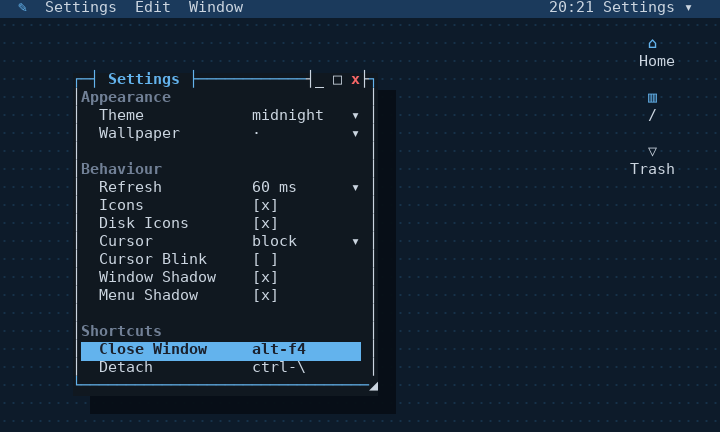
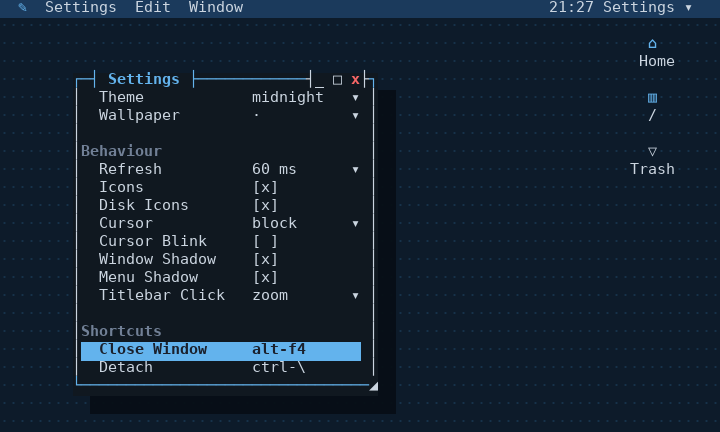
A double click on a title bar is configurable, zoom by default
DT_DBLACTION picks what happens: zoom (the default, matching every OS
this style is borrowed from), min, close, or none. DT_DBLID and
DT_DBLT track the last title-bar click well enough to tell a real
double click from two unrelated ones, DT_DBLMS (400ms) apart -- a
threshold, not a setting of its own. Zoom checks fixed itself, the
same restriction the □ button and the corner drag already have,
since dt_zoom has no such guard and this is a new path to it that
bypasses the menu's own dimming.

Settings gets a "Titlebar Click" dropdown (proving the widget library
a second time, on a genuinely different set of choices from Theme or
Cursor). Its label had to be shorter than the request's own wording --
"Titlebar Double-Click" doesn't fit the row's fixed label width and
collided with the dropdown drawn after it, caught by looking at the
actual render rather than trusting the string.

Adding a row before Shortcuts shifted everything after it again, the
same class of fallout as the last two settings additions: DOWN4 and
the shortcut-rebind test's down-count both bumped, and the
About-Refresh test's window made one row taller again.

Testing this needed its own timing, not run()'s: two presses close
enough together to count as a double click have to land inside
DT_DBLMS, and run()'s own default settle-plus-collect between keys
(0.25s + 0.2s) is longer than that. dblclick_run sends the first
press with a much tighter settle instead, the same reasoning shadow_run
[…]

diff --git a/tests/desktop.py b/tests/desktop.py
@@ -158,6 +158,31 @@ sc, _ = run(ONE, [press(6, 35), press(1, 75)])
 check("and zooming again puts it back where it was",
       sc.g[6][10] == "┌" and sc.g[13][39] == "◢", sc)
 
+
+# Two presses close enough together to count as one double click -- run()'s
+# own default settle/collect between keys (0.25s + 0.2s) is longer than
+# DT_DBLMS, so this needs its own tight timing rather than run()'s.
+def dblclick_run(session, r, c, env=None):
+    path = "/tmp/hibr-desktop-dblclick.hibr"
+    open(path, "w").write("%s. %s\ndt_open\n%s\ndt_run\ndt_close\n"
+                          % (load(MOD), WM, session))
+    t = Term(path, env=dict({"DT_TICK": "60"}, **(env or {})), rows=ROWS,
+             cols=COLS, settle=0.5)
+    t.send(press(r, c), settle=0.1, collect=0.05)
+    t.send(press(r, c), settle=0.3, collect=0.2)
+    sc = t.screen()
+    t.quit(b"qy", 1.0)
+    os.unlink(path)
+    return sc
+
+
+sc = dblclick_run(ONE, 6, 20)
+check("double-clicking the title bar zooms it too, by default",
+      sc.g[1][0] == "┌" and sc.g[23][79] == "◢", sc)
+sc = dblclick_run(ONE, 6, 20, env={"DT_DBLACTION": "none"})
+check("DT_DBLACTION=none turns that off",
+      sc.g[6][10] == "┌" and sc.g[1][0] != "┌", sc)
+
 # An app declared fixed has no maximise button at all -- not dimmed, not
 # there -- so a game whose board is one size does not offer to stretch it.
 FIXED = ('dt_app fx "Fixed" 6 20 once "◆" fixed\n'
@@ -178,6 +203,9 @@ check("Zoom is dimmed on the Window menu for it",
       sc.find("Zoom") is not None and sc.at(3, 22) != "z", sc)
 check("and so is Resize",
       sc.find("Resize") is not None and sc.at(2, 22) != "r", sc)
+sc = dblclick_run(FIXED, 4, 15)
+check("a fixed window's double-click does not zoom it either",
+      sc.g[9][27] == "┘", sc)
 
 # The bar's app name follows focus even for an app with no menus of its own
 # to merge in -- Clock and About are exactly this shape, and used to show
@@ -859,12 +887,12 @@ sc, raw = run('dt_new "Settings" 12 34 2 2 panel',
 check("and the next desktop starts with it", sc.find("slate") is not None, sc)
 shutil.rmtree(CONF, True)
 
-# Nine downs from Theme reaches Close Window: Theme, Wallpaper, Refresh,
+# Ten downs from Theme reaches Close Window: Theme, Wallpaper, Refresh,
 # Icons, Disk Icons, Cursor, Cursor Blink, Window Shadow, Menu Shadow,
-# Close Window.
+# Titlebar Click, Close Window.
 CONF2 = tempfile.mkdtemp(prefix="hibr-conf2-")
 sc, raw = run('dt_new "Settings" 12 34 2 2 panel',
-              feed=[b"\x1b[B"] * 9 + [b"\r", b"x"],
+              feed=[b"\x1b[B"] * 10 + [b"\r", b"x"],
               env={"XDG_CONFIG_HOME": CONF2}, pre=PANEL)
 check("a shortcut row can be rebound to a new key",
       sc.find("alt-f4") is None, sc)
@@ -1029,4 +1057,4 @@ check("ending it leaves the other one alone",
       "personal" in r.stdout and "work" not in r.stdout, r.stdout)
 unsession()
 
-report(161)
+report(164)

diff --git a/tests/apps.py b/tests/apps.py
@@ -235,10 +235,11 @@ check("down skips the blank line and the heading, landing on Refresh",
       sc.find("350 ms") is not None, sc)
 
 # Theme, Wallpaper, Refresh, Icons, Disk Icons, Cursor, Cursor Blink, Window
-# Shadow, Menu Shadow, Close Window, Detach, Quit, Cycle Windows, New
-# Terminal, Task Manager, Panel, Other -- sixteen downs from Theme reaches
-# the second window, because cp_move steps over the headings and the blanks.
-DOWN4 = [b"\x1b[B"] * 16
+# Shadow, Menu Shadow, Titlebar Click, Close Window, Detach, Quit,
+# Cycle Windows, New Terminal, Task Manager, Panel, Other -- seventeen downs
+# from Theme reaches the second window, because cp_move steps over the
+# headings and the blanks.
+DOWN4 = [b"\x1b[B"] * 17
 
 sc = run(*PANEL, feed=[b"\x1b[B"] * 3 + [b"\r"], pre=TICK, also=OTHER)
 check("the icons can be switched off, and the panel shows an unchecked box",
@@ -252,6 +253,14 @@ check("menu shadow is its own setting, separate from window shadow",
       "[ ]" in sc.row(sc.find("Menu Shadow")[0]) and
       "[x]" in sc.row(sc.find("Window Shadow")[0]),
       sc)
+
+sc = run(*PANEL, feed=[b"\x1b[B"] * 9, pre=TICK, also=OTHER)
+check("titlebar double-click defaults to zoom",
+      sc.find("Titlebar Click") is not None and
+      "zoom" in sc.row(sc.find("Titlebar Click")[0]), sc)
+sc = run(*PANEL, feed=[b"\x1b[B"] * 9 + [b"\x1b[C"], pre=TICK, also=OTHER)
+check("and it cycles through the other actions",
+      "min" in sc.row(sc.find("Titlebar Click")[0]), sc)
 
 sc = run(*PANEL, feed=DOWN4 + [b"x"], pre=TICK, also=OTHER)
 check("x closes the selected window", sc.find("Other") is None and
@@ -274,7 +283,7 @@ check("a click selects and a second click acts",
 sc = run(*PANEL, feed=[press(3, 10), press(3, 10)], pre=TICK, also=OTHER)
 check("clicking a heading does nothing", sc.find("midnight") is not None, sc)
 
-sc = run("panel", "15 34 2 2", pre=TICK, extra=("about",))
+sc = run("panel", "16 34 2 2", pre=TICK, extra=("about",))
 check("About Refresh only appears once About hibr itself is loaded",
       sc.find("About Refresh") is not None and
       sc.find("3000 ms") is not None, sc)
@@ -679,4 +688,4 @@ os.rmdir(D)
 os.unlink(os.path.join(S, "session.hibr"))
 os.rmdir(S)
 
-report(116)
+report(118)

diff --git a/docs/desktop.md b/docs/desktop.md
@@ -22,6 +22,11 @@ Drag a title bar to move a window and the `◢` in its bottom-right corner to
 resize it. `_` minimises, `□` fills the screen, `x` closes. `tab` cycles, `escape` brings back a minimised window, and `q` quits
 and gives the terminal back.
 
+A double click on the title bar itself does the same as `□` by default --
+`DT_DBLACTION`, a Settings entry, can change that to minimise, close, or
+nothing at all. It never zooms a fixed window, the same restriction `□`
+itself already has.
+
 A minimised window has no pane at all, so nothing draws it and nothing can
 click it. Its label on the bar across the top is the only way back — click it
 to restore the window. The bar also says how many windows are open and how
